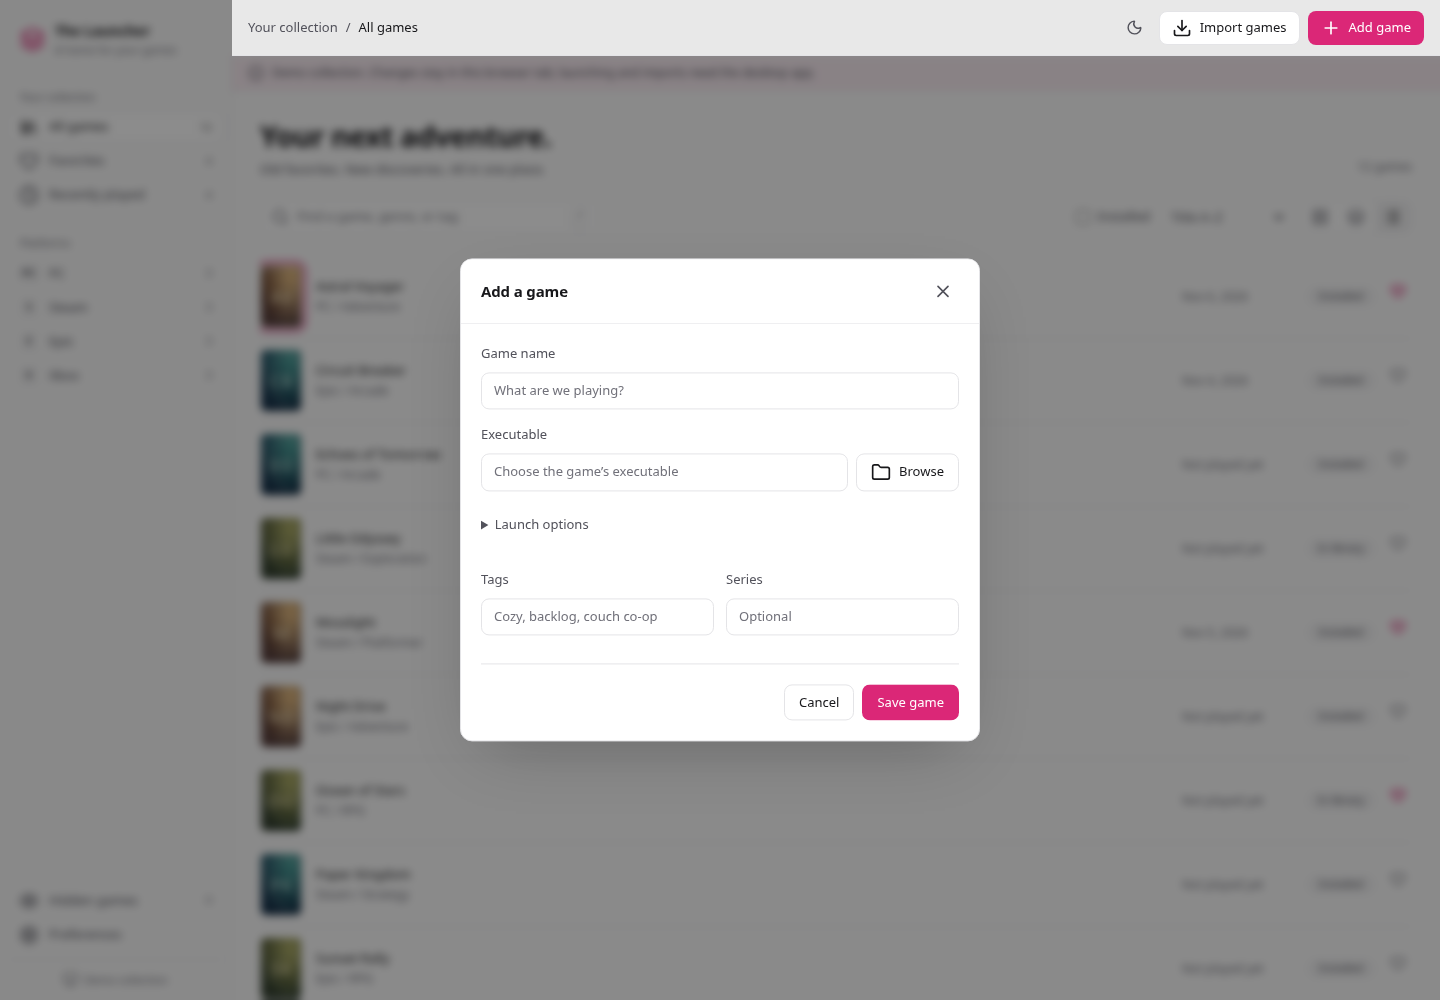
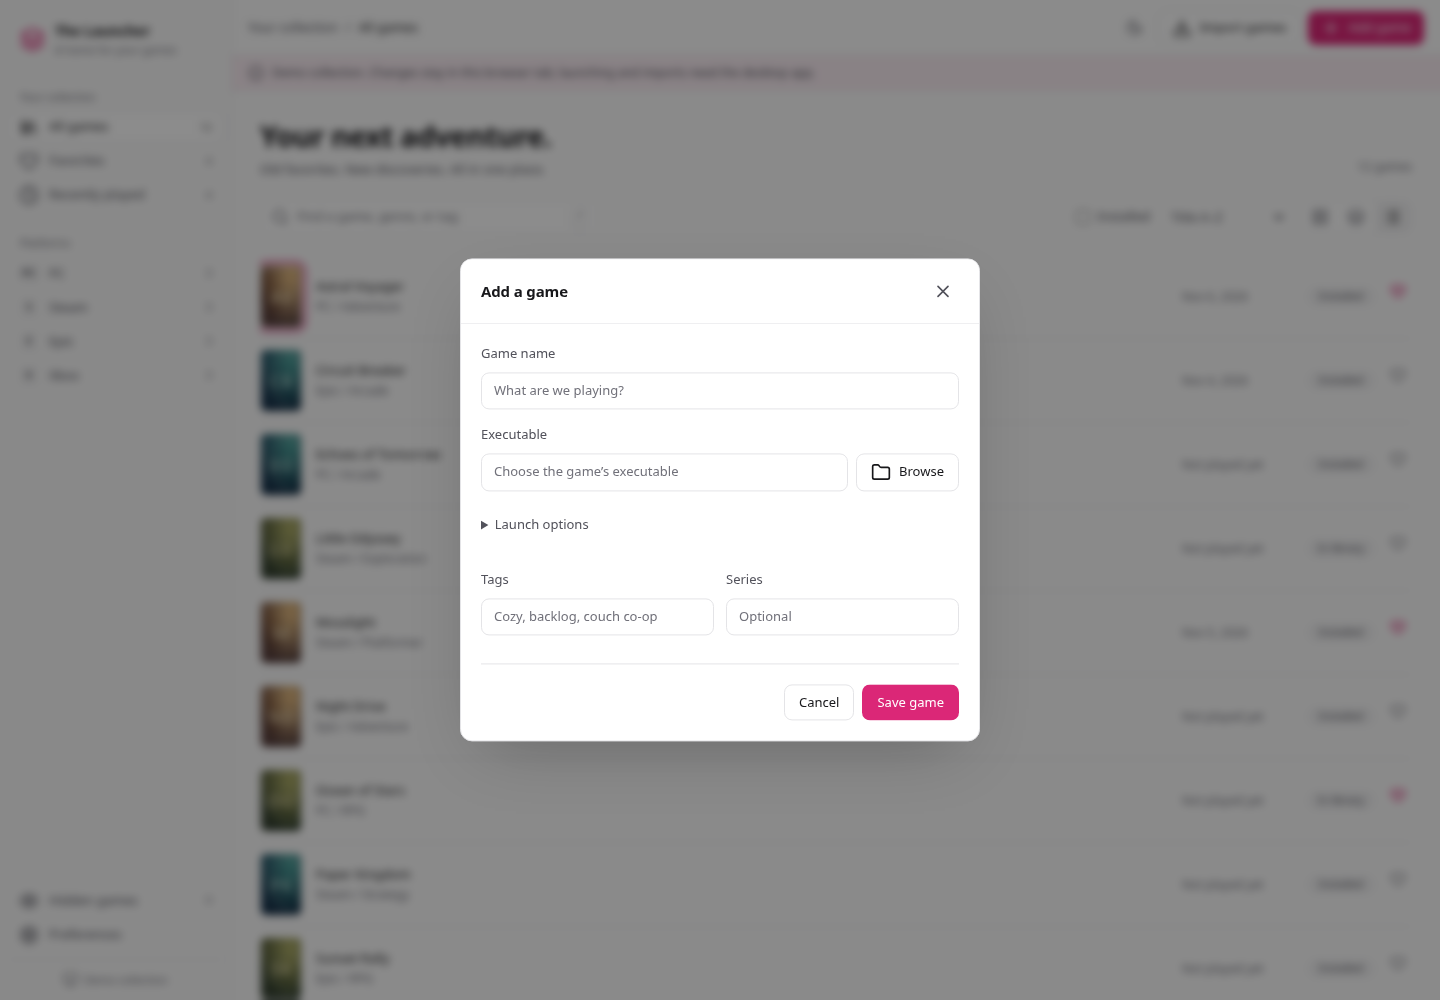
Frameless themed window with custom titlebar; fix dialog layering

Changed region(s): [[0.1562, 0.0, 1.0, 0.062]]

diff --git a/frontend/components/Titlebar.svelte b/frontend/components/Titlebar.svelte
@@ -1,0 +1,55 @@
+<script lang="ts">
+  import { onMount } from 'svelte';
+  import Button from './ui/button.svelte';
+  import Icon from './Icon.svelte';
+  import {
+    onWindowResized,
+    windowAction,
+    windowMaximized,
+  } from '../lib/api';
+
+  let { title }: { title: string } = $props();
+  let maximized = $state(false);
+  onMount(() => {
+    let unlisten: (() => void) | null = null;
+    (async () => {
+      maximized = await windowMaximized();
+      unlisten = await onWindowResized(async () => {
+        maximized = await windowMaximized();
+      });
+    })();
+    return () => unlisten?.();
+  });
+</script>
+
+<!-- Double-click to toggle maximize. Keyboard users get the same action
+     from the maximize button, so the static-element handler is intentional. -->
+<!-- svelte-ignore a11y_no_static_element_interactions -->
+<header
+  class="titlebar"
+  data-tauri-drag-region
+  ondblclick={() => windowAction('toggleMaximize')}
+>
+  <span class="titlebar-label" data-tauri-drag-region>{title}</span>
+  <div class="window-controls">
+    <Button
+      variant="icon"
+      class="window-button"
+      aria-label="Minimize"
+      onclick={() => windowAction('minimize')}
+      ><Icon name="minus" size={15} /></Button
+    ><Button
+      variant="icon"
+      class="window-button"
+      aria-label={maximized ? 'Restore' : 'Maximize'}
+      onclick={() => windowAction('toggleMaximize')}
+      ><Icon name={maximized ? 'copy' : 'square'} size={13} /></Button
+    ><Button
+      variant="icon"
+      class="window-button close"
+      aria-label="Close"
+      onclick={() => windowAction('close')}
+      ><Icon name="close" size={16} /></Button
+    >
+  </div>
+</header>

diff --git a/frontend/style.css b/frontend/style.css
@@ -446,6 +446,59 @@ html[data-theme='dark'] .navigation nav button.active {
   flex: 1;
   min-width: 0;
 }
+.titlebar {
+  display: none;
+  height: 40px;
+  flex-shrink: 0;
+  align-items: center;
+  gap: 12px;
+  padding: 0 6px 0 14px;
+  background: var(--navigation);
+  border-bottom: 1px solid var(--line);
+  user-select: none;
+  -webkit-user-select: none;
+  position: sticky;
+  top: 0;
+  z-index: 60;
+}
+.has-titlebar .titlebar {
+  display: flex;
+}
+.has-titlebar .topbar {
+  top: 40px;
+}
+.has-titlebar .detail-panel {
+  top: 96px;
+  max-height: calc(100vh - 96px);
+}
+.has-titlebar .library-layout {
+  min-height: calc(100vh - 96px);
+}
+.titlebar-label {
+  flex: 1;
+  min-width: 0;
+  font-size: 12px;
+  font-weight: 500;
+  color: var(--muted);
+  white-space: nowrap;
+  overflow: hidden;
+  text-overflow: ellipsis;
+}
+.window-controls {
+  display: flex;
+  align-items: center;
+  gap: 2px;
+  margin-left: auto;
+}
+.window-button {
+  width: 44px;
+  height: 32px;
+  border-radius: var(--radius-sm);
+}
+.window-button.close:hover {
+  background: #e81123;
+  color: #fff;
+}
 .topbar {
   height: 56px;
   display: flex;
@@ -1184,6 +1237,7 @@ html[data-theme='dark'] .is-favorite {
 .dialog-overlay {
   position: fixed;
   inset: 0;
+  z-index: 40;
   background: rgb(0 0 0 / 45%);
   backdrop-filter: blur(4px);
 }
@@ -1195,6 +1249,7 @@ html[data-theme='dark'] .dialog-overlay {
   left: 50%;
   top: 50%;
   transform: translate(-50%, -50%);
+  z-index: 50;
   color: var(--text);
   background: var(--surface);
   border: 1px solid var(--line);

diff --git a/frontend/lib/api.ts b/frontend/lib/api.ts
@@ -1,4 +1,5 @@
 import { invoke } from '@tauri-apps/api/core';
+import { getCurrentWindow } from '@tauri-apps/api/window';
 import {
   defaultSettings,
   defaultWorkspace,
@@ -220,6 +221,24 @@ export async function command<T = unknown>(
       throw new Error(`Unknown desktop action: ${name}`);
   }
   return result as T;
+}
+export type WindowAction = 'minimize' | 'toggleMaximize' | 'close';
+/** Frameless window controls. No-ops outside the desktop app. */
+export async function windowAction(action: WindowAction): Promise<void> {
+  if (!desktop) return;
+  const win = getCurrentWindow();
+  if (action === 'minimize') await win.minimize();
+  else if (action === 'toggleMaximize') await win.toggleMaximize();
+  else await win.close();
+}
+export async function windowMaximized(): Promise<boolean> {
+  if (!desktop) return false;
+  return getCurrentWindow().isMaximized();
+}
+/** Resolves to a no-op unlisten function outside the desktop app. */
+export function onWindowResized(handler: () => void): Promise<() => void> {
+  if (!desktop) return Promise.resolve(() => {});
+  return getCurrentWindow().onResized(handler);
 }
 export function demoSnapshot(): Snapshot {
   let library: Library = {

diff --git a/frontend/App.svelte b/frontend/App.svelte
@@ -8,6 +8,7 @@
   import GameDetails from './components/GameDetails.svelte';
   import ArtworkChoice from './components/ArtworkChoice.svelte';
   import Preferences from './components/Preferences.svelte';
+  import Titlebar from './components/Titlebar.svelte';
   import {
     command,
     demo,
@@ -658,6 +659,7 @@
   class="app-shell"
   class:nav-right={active.layout.navigation === 'right'}
   class:nav-hidden={active.layout.navigation === 'hidden'}
+  class:has-titlebar={desktop}
   style={`${tokens};--tile-width:${active.layout.tile_width}px;--nav-width:${active.layout.navigation_width}px;--details-width:${active.layout.details_width}px`}
 >
   <a class="skip-link" href="#library">Skip to library</a>
@@ -722,6 +724,11 @@
     </div>
   </aside>
   <div class="main-shell">
+    {#if desktop}<Titlebar
+        title={collection === 'All games'
+          ? 'The Launcher'
+          : `The Launcher — ${collection}`}
+      />{/if}
     <header class="topbar">
       <Button
         variant="icon"

diff --git a/frontend/components/Icon.svelte b/frontend/components/Icon.svelte
@@ -5,6 +5,7 @@
     Check,
     ChevronDown,
     Clock,
+    Copy,
     Download,
     Eye,
     Folder,
@@ -16,6 +17,7 @@
     LayoutGrid,
     Library,
     List,
+    Minus,
     Monitor,
     Moon,
     PenLine,
@@ -24,6 +26,7 @@
     RotateCw,
     Search,
     Settings,
+    Square,
     Sun,
     X,
   } from 'lucide-svelte';
@@ -36,6 +39,9 @@
     grid: LayoutGrid,
     list: List,
     shelf: Layers,
+    minus: Minus,
+    square: Square,
+    copy: Copy,
     heart: Heart,
     clock: Clock,
     search: Search,

diff --git a/index.html b/index.html
@@ -3,7 +3,8 @@
   <head>
     <meta charset="UTF-8" />
     <meta name="viewport" content="width=device-width, initial-scale=1.0" />
-    <meta name="theme-color" content="#101420" />
+    <meta name="theme-color" content="#fcfcfc" media="(prefers-color-scheme: light)" />
+    <meta name="theme-color" content="#09090b" media="(prefers-color-scheme: dark)" />
     <title>The Launcher</title>
   </head>
   <body>

diff --git a/docs/development.md b/docs/development.md
@@ -32,7 +32,11 @@ Shared pieces live in `frontend/components/ui/` (`Button` with
 `primary`/`secondary`/`ghost`/`danger`/`icon` variants) with `cn()` in
 `frontend/lib/utils.ts` for class merging. Dialogs use `bits-ui` Dialog with
 the same modal contract; keep the `Modal` props stable and put new generic
-controls in `ui/` rather than hand-rolled CSS.
+controls in `ui/` rather than hand-rolled CSS. The overlay sits above the
+sticky topbar. The desktop window is frameless (`decorations: false` in
+`tauri.conf.json`) with its own themed `Titlebar.svelte` (Tauri-only drag
+region plus minimize/maximize/close through `lib/api.ts`); the browser demo
+hides it.
 
 ## Screenshots and benchmarks
 
